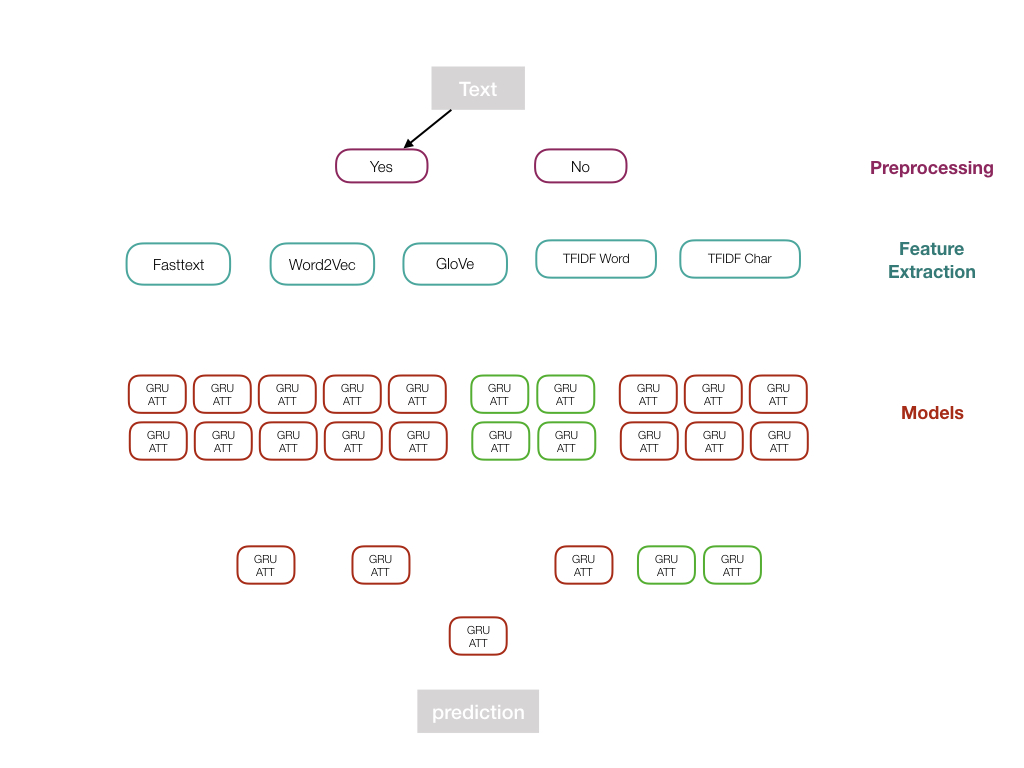
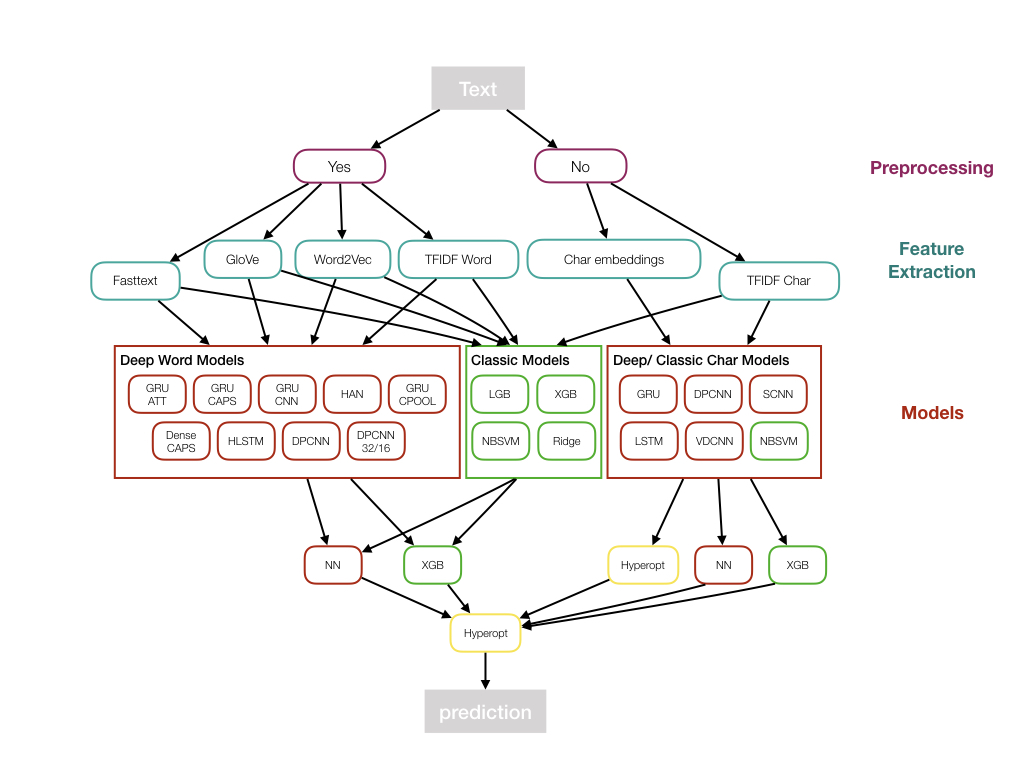
added first version of HAN, changed summary image

diff --git a/models/HAN/train.py b/models/HAN/train.py
@@ -1,0 +1,199 @@
+import re, os, gc, time, pandas as pd, numpy as np
+import tqdm
+
+np.random.seed(32)
+
+from nltk import tokenize, word_tokenize
+from keras.preprocessing.sequence import pad_sequences
+from keras.layers import Dense, Input, LSTM, GRU, Embedding, Dropout, Activation, Conv1D
+from keras.layers import Bidirectional, Add, Flatten, TimeDistributed,CuDNNGRU,CuDNNLSTM
+from keras.optimizers import Adam, RMSprop
+from keras.models import Model, load_model
+from custom_keras_classes import AttentionWeightedAverage, RocAucEvaluation
+
+
+
+
+
+
+embed_size = 300
+max_features = 150000
+max_text_len = 150
+max_sent = 5
+
+# EMBEDDING_FILE = "../input/glove840b300dtxt/glove.840B.300d.txt
+EMBEDDING_FILE = "crawl-300d-2M.vec/crawl-300d-2M.vec"
+
+
+def clean_corpus(comment):
+    comment = comment.replace('&', ' and ')
+    comment = comment.replace('0', ' zero ')
+    comment = comment.replace('1', ' one ')
+    comment = comment.replace('2', ' two ')
+    comment = comment.replace('3', ' three ')
+    comment = comment.replace('4', ' four ')
+    comment = comment.replace('5', ' five ')
+    comment = comment.replace('6', ' six ')
+    comment = comment.replace('7', ' seven ')
+    comment = comment.replace('8', ' eight ')
+    comment = comment.replace('9', ' nine ')
+    comment = comment.replace('\'ve', ' have ')
+    comment = comment.replace('\'d', ' would ')
+    comment = comment.replace('\'m', ' am ')
+    comment = comment.replace('n\'t', ' not ')
+    comment = comment.replace('\'s', ' is ')
+    comment = comment.replace('\'r', ' are ')
+    comment = re.sub(r"\\", "", comment)
+    comment = word_tokenize(comment)
+    comment = " ".join(word for word in comment)
+    return comment.strip().lower()
+
+
+tic = time.time()
+categories = ["toxic", "severe_toxic", "obscene", "threat", "insult", "identity_hate"]
+train = pd.read_csv("train.csv")
+test = pd.read_csv("test.csv")
+Y = train[categories].values
+
+train["comment_text"].fillna("no comment", inplace = True)
+train["comment_text"] = train["comment_text"].apply(lambda x: clean_corpus(x))
+
+test["comment_text"].fillna("no comment", inplace = True)
+test["comment_text"] = test["comment_text"].apply(lambda x: clean_corpus(x))
+
+train["sentences"] = train["comment_text"].apply(lambda x: tokenize.sent_tokenize(x))
+test["sentences"] = test["comment_text"].apply(lambda x: tokenize.sent_tokenize(x))
+toc = time.time()
+print(toc-tic)
+
+
+from keras.preprocessing.text import Tokenizer, text_to_word_sequence
+
+raw_text = train["comment_text"]
+tk = Tokenizer(num_words = max_features, lower = True)
+tk.fit_on_texts(raw_text)
+
+def sentenize(data):
+    comments = data["sentences"]
+    sent_matrix = np.zeros((len(comments), max_sent, max_text_len), dtype = "int32")
+    for i, sentences in enumerate(comments):
+        for j, sent in enumerate(sentences):
+            if j < max_sent:
+                wordTokens = text_to_word_sequence(sent)
+                k=0
+                for _, word in enumerate(wordTokens):
+                    try:
+                        if k < max_text_len and tk.word_index[word] < max_features:
+                            sent_matrix[i, j, k] = tk.word_index[word]
+                            k = k+1
+                    except:
+                            sent_matrix[i, j, k] = 0
+                            k = k+1
+    return sent_matrix
+
+X = sentenize(train)
+X_test = sentenize(test)
+
+del train, test
+gc.collect()
+
+tic = time.time()
+def get_coefs(word,*arr): return word, np.asarray(arr, dtype = "float32")
+embeddings_index = dict(get_coefs(*o.strip().split()) for o in open(EMBEDDING_FILE))
+
+word_index = tk.word_index
+nb_words = min(max_features, len(word_index))
+embedding_matrix = np.zeros((nb_words, embed_size))
+for word, i in word_index.items():
+    if i >= max_features: continue
+    embedding_vector = embeddings_index.get(word)
+    if embedding_vector is not None: embedding_matrix[i] = embedding_vector
+toc = time.time()
+print(toc-tic)
+
+
+from keras.callbacks import EarlyStopping, ModelCheckpoint
+
+def build_model(rnn_units = 0, de_units = 0, lr = 0.0):
+    encoder_inp = Input(shape = (max_text_len,), dtype = "int32")
+    endcoder = Embedding(nb_words, embed_size, weights = [embedding_matrix],
+                        input_length = max_text_len, trainable = False)(encoder_inp)
+    endcoder = Bidirectional(CuDNNLSTM(rnn_units, return_sequences = True))(endcoder)
+    endcoder = TimeDistributed(Dense(de_units, activation = "relu"))(endcoder)
+    endcoder = AttentionWeightedAverage()(endcoder)
+    Encoder = Model(encoder_inp, endcoder)
+
+    decoder_inp = Input(shape = (max_sent, max_text_len), dtype = "int32")
+    decoder = TimeDistributed(Encoder)(decoder_inp)
+    decoder = Bidirectional(CuDNNLSTM(rnn_units, return_sequences = True))(decoder)
+    decoder = TimeDistributed(Dense(de_units, activation = "relu"))(decoder)
+    Decoder = AttentionWeightedAverage()(decoder)
+    #Decoder = Dropout(0.7)(Decoder)
+    out = Dense(6, activation = "sigmoid")(Decoder)
+    model = Model(decoder_inp, out)
+    model.compile(loss = "binary_crossentropy", optimizer = Adam(lr = lr),  metrics = ["accuracy"])
+    return model
+model = build_model(rnn_units = 64, de_units = 64, lr = 1e-3)
+model.summary()
+
+
+fold_count = 10
+fold_size = len(X) // 10
+for fold_id in range(0, fold_count):
+    fold_start = fold_size * fold_id
+    fold_end = fold_start + fold_size
+
+    if fold_id == fold_size - 1:
+        fold_end = len(X)
+
+    X_valid = X[fold_start:fold_end]
+    Y_valid = Y[fold_start:fold_end]
+    X_train = np.concatenate([X[:fold_start], X[fold_end:]])
+    Y_train = np.concatenate([Y[:fold_start], Y[fold_end:]])
+
+    model = build_model(rnn_units = 64, de_units = 64, lr = 1e-3)
+    file_path = "HAN_%s_.hdf5" %fold_id
+    ra_val = RocAucEvaluation(validation_data = (X_valid, Y_valid), interval = 1)
+    check_point = ModelCheckpoint(file_path, monitor = "val_loss", mode = "min", save_best_only = True, verbose = 1)
+    history = model.fit(X_train, Y_train, batch_size = 128, epochs = 3, validation_data = (X_valid, Y_valid),
+                    verbose = 1, callbacks = [ra_val, check_point])
+
+
+list_of_preds = []
+list_of_vals = []
+list_of_y = []
+fold_count = 10
+fold_size = len(X) // 10
+for fold_id in range(0, fold_count):
+    fold_start = fold_size * fold_id
+    fold_end = fold_start + fold_size
+
+    if fold_id == fold_size - 1:
+        fold_end = len(X)
+
+    X_valid = X[fold_start:fold_end]
+    Y_valid = Y[fold_start:fold_end]
+    X_train = np.concatenate([X[:fold_start], X[fold_end:]])
+    Y_train = np.concatenate([Y[:fold_start], Y[fold_end:]])
+
+    file_path = 'HAN_' + str(fold_id) + '_.hdf5'
+    model = load_model(file_path, custom_objects = {"AttentionWeightedAverage": AttentionWeightedAverage})
+    preds = model.predict(X_test, batch_size = 1024, verbose = 1)
+    list_of_preds.append(preds)
+    vals = model.predict(X_valid, batch_size = 1024, verbose = 1)
+    list_of_vals.append(vals)
+    list_of_y.append(Y_valid)
+
+test_predicts = np.zeros(list_of_preds[0].shape)
+for fold_predict in list_of_preds:
+    test_predicts += fold_predict
+
+test_predicts /= len(list_of_preds)
+submission = pd.read_csv('sample_submission.csv')
+submission[categories] = test_predicts
+submission.to_csv('l2_test_data.csv', index=False)
+
+l2_data = pd.DataFrame(columns=['logits_' + c for c in categories]+categories)
+l2_data[['logits_' + c for c in categories]] = pd.DataFrame(np.concatenate(list_of_vals,axis = 0))
+l2_data[categories] = pd.DataFrame(np.concatenate(list_of_y,axis = 0))
+l2_data.to_csv('l2_train_data.csv')

diff --git a/custom_keras_classes.py b/custom_keras_classes.py
@@ -1,0 +1,80 @@
+from keras.callbacks import Callback
+import keras.backend as K
+from keras.engine import InputSpec, Layer
+from keras import initializers
+from sklearn.metrics import roc_auc_score
+
+
+
+
+class RocAucEvaluation(Callback):
+    def __init__(self, validation_data=(), interval=1):
+        super(Callback, self).__init__()
+
+        self.interval = interval
+        self.X_val, self.y_val = validation_data
+
+    def on_epoch_end(self, epoch, logs={}):
+        if epoch % self.interval == 0:
+            y_pred = self.model.predict(self.X_val, verbose=0)
+            score = roc_auc_score(self.y_val, y_pred)
+            print("\n ROC-AUC - epoch: {:d} - score: {:.6f}".format(epoch + 1, score))
+
+
+class AttentionWeightedAverage(Layer):
+    """
+    Computes a weighted average of the different channels across timesteps.
+    Uses 1 parameter pr. channel to compute the attention value for a single timestep.
+    """
+
+    def __init__(self, return_attention=False, **kwargs):
+        self.init = initializers.get('uniform')
+        self.supports_masking = True
+        self.return_attention = return_attention
+        super(AttentionWeightedAverage, self).__init__(**kwargs)
+
+    def build(self, input_shape):
+        self.input_spec = [InputSpec(ndim=3)]
+        assert len(input_shape) == 3
+
+        self.W = self.add_weight(shape=(input_shape[2], 1),
+                                 name='{}_W'.format(self.name),
+                                 initializer=self.init)
+        self.trainable_weights = [self.W]
+        super(AttentionWeightedAverage, self).build(input_shape)
+
+    def call(self, x, mask=None):
+        # computes a probability distribution over the timesteps
+        # uses 'max trick' for numerical stability
+        # reshape is done to avoid issue with Tensorflow
+        # and 1-dimensional weights
+        logits = K.dot(x, self.W)
+        x_shape = K.shape(x)
+        logits = K.reshape(logits, (x_shape[0], x_shape[1]))
+        ai = K.exp(logits - K.max(logits, axis=-1, keepdims=True))
+
+        # masked timesteps have zero weight
+        if mask is not None:
+            mask = K.cast(mask, K.floatx())
+            ai = ai * mask
+        att_weights = ai / (K.sum(ai, axis=1, keepdims=True) + K.epsilon())
+        weighted_input = x * K.expand_dims(att_weights)
+        result = K.sum(weighted_input, axis=1)
+        if self.return_attention:
+            return [result, att_weights]
+        return result
+
+    def get_output_shape_for(self, input_shape):
+        return self.compute_output_shape(input_shape)
+
+    def compute_output_shape(self, input_shape):
+        output_len = input_shape[2]
+        if self.return_attention:
+            return [(input_shape[0], output_len), (input_shape[0], input_shape[1])]
+        return (input_shape[0], output_len)
+
+    def compute_mask(self, input, input_mask=None):
+        if isinstance(input_mask, list):
+            return [None] * len(input_mask)
+        else:
+            return None
